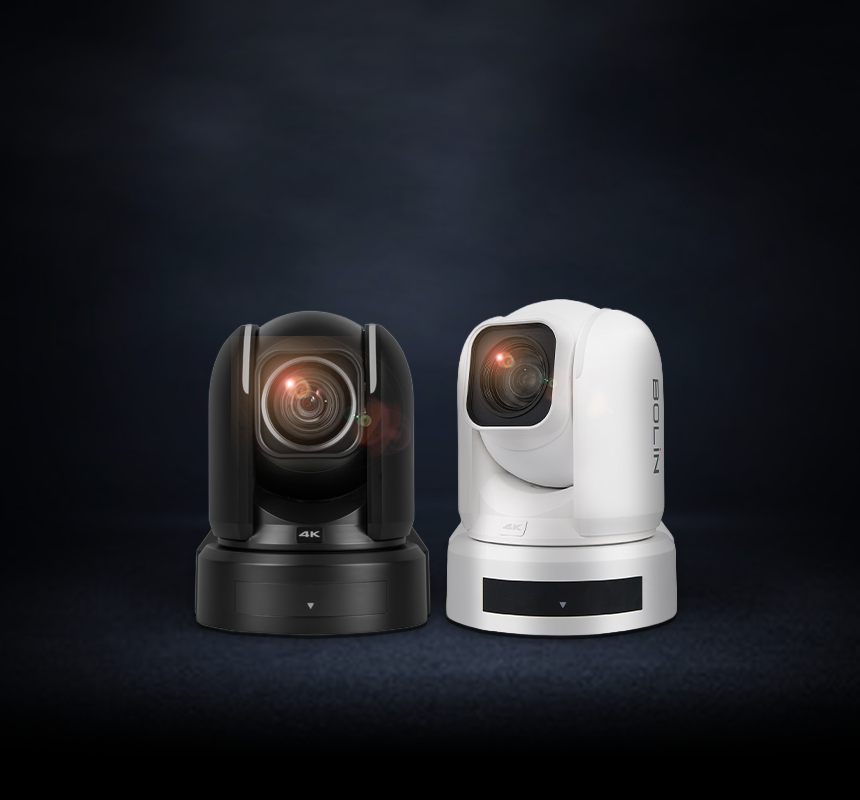
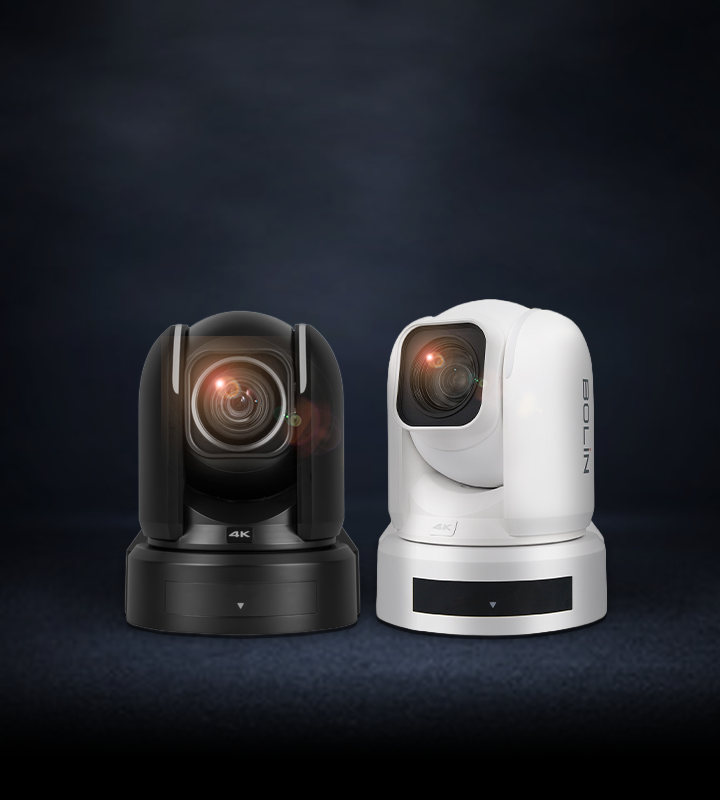
19
19

diff --git a/public/Product/R9-420F_B/sample.html b/public/Product/R9-420F_B/sample.html
@@ -46,7 +46,7 @@
       </div>
       <div>
         <li>
-        <img src="./img/logo_bolinW.png" alt="BOLIN 로고" title="보린 화이트 로고"/>
+        <img src="./img/logo_bolinW.png" alt="BOLIN 로고" title="보린 화이트 로고" style="scale: 0.7;" />
         <h2>4K PTZ Camera</h2>
         <h3>Professional</h3>
         </li>
@@ -65,10 +65,6 @@
         <h2>Red Line 시리즈</h2>
         <span>고품질, 저지연성, 저대역폭 IP 스트림을 제공하여 원격 프로덕션, 클라우드 스트리밍 및 하이브리드 방송 애플리케이션에 적합합니다.</span>
         <div>
-            <picture>
-              <source media="(min-width: 768px)" srcset="./img/b9res.png" alt="BOLIN PTZ 카메라" title="BOLIN R라인 시리즈"/>
-              <img>
-            </picture>
         </div>
         <ul>
           <li>
@@ -78,7 +74,18 @@
             </picture>
             <div>
               <h3>R9-420F</h3>
-              <span>1/2.8 Inch 4K Sony Image Sensorㅣ 20X Zoom Rangeㅣ 4K60(2160p59.97)ㅣ Full HD (1080/i59.94/p60) ㅣ 12G-SDI + SFP-SDI+HDMI2.0+IPㅣ FAST HEVCㅣ Ultra Low Latencyㅣ Low Bandwidthㅣ FreeD Supported</span>
+              <span>
+                <ul>
+                <li><i class="fas fa-video"></i> 1/2.8" 4K Sony Sensor</li>
+                <li><i class="fas fa-search-plus"></i> 20X Zoom Range</li>
+                <li><i class="fas fa-tv"></i> 4K60(2160p59.97)</li>
+                <li><i class="fas fa-plug"></i> 12G-SDIㅣHDMIㅣIP</li>
+                <li><i class="fas fa-cube"></i> FreeD Supported</li>
+                </ul>
+              </span>
+
+              
+              
             </div>
           </li>
           <li>
@@ -88,7 +95,15 @@
             </picture>
             <div>
               <h3>R9-230H</h3>
-              <span>1/1.8 Inch Sony Image Sensorㅣ 30X Zoom Rangeㅣ Full HD (1080/i59.94/p60)ㅣ 3G-SDI + SFP-SDI+HDMI+IPㅣ Standard AVC/HEVCㅣ Super Image Stabilizerㅣ Low Light Performanceㅣ FreeD Supported</span>
+              <span>
+                <ul>
+                  <li><i class="fas fa-video"></i> 1/1.8" Sony Sensor</li>
+                  <li><i class="fas fa-search-plus"></i> 30X Zoom Range</li>
+                  <li><i class="fas fa-tv"></i> Full HD (1080/i59.94/p60)</li>
+                  <li><i class="fas fa-plug"></i> 3G-SDI + HDMI + IP</li>
+                  <li><i class="fas fa-hand-rock"></i> Super Image Stabilizer</li>
+                </ul>
+              </span>
             </div>
           </li>
           <li>
@@ -98,10 +113,28 @@
             </picture>
             <div>
               <h3>R9-418F</h3>
-              <span>1 Inch 4K Sony Image Sensorㅣ 18X Zoom Rangeㅣ 4K30(2160p29.97)ㅣ Full HD (1080/i59.94/p60)ㅣ 6G-SDI + SFP-SDI+HDMI+IPㅣ FAST HEVCㅣ Ultra Low Latencyㅣ Low Bandwidthㅣ FreeD Supported</span>
+              <span>
+                <ul>
+                  <li><i class="fas fa-video"></i> 1 Inch 4K Sony Sensor</li>
+                  <li><i class="fas fa-search-plus"></i> 18X Zoom Range</li>
+                  <li><i class="fas fa-tv"></i> 4K30(2160p29.97)</li>
+                  <li><i class="fas fa-plug"></i> 6G-SDI + HDMI + IP</li>
+                  <li><i class="fas fa-cube"></i> FreeD Supported</li>
+                </ul>
+              </span>
             </div>
           </li>
         </ul>
+
+        
+        <div>
+            <picture>
+              <source media="(min-width: 768px)" srcset="./img/b9res.png" alt="BOLIN PTZ 카메라" title="BOLIN R라인 시리즈"/>
+              <img>
+            </picture>
+        </div>
+
+
         <p class="p_s" style="display: flex; justify-content: flex-end;"><a href="#sspec" class="p_sa">스펙 자세히 보기 ></a></p>
       </div>
     </section>

diff --git a/public/Product/R9-420F_B/style/media.css b/public/Product/R9-420F_B/style/media.css
@@ -2,6 +2,66 @@
 
 @media (max-width: 768px) {
 
+  #container section:nth-child(n+2) > div{
+    padding: calc(4rem + 0.25vw) calc(1rem + 0.25vw);
+    /* margin: 0 1rem; */
+  }
+  #container #sspec > div{margin:0;padding: 1rem;}
+  
+  #container #gr-x1 li:nth-child(3) img,
+  #container #gr-x1 li:nth-child(4) img{
+     height: calc(10.75rem + 0.25vw);
+     object-fit: cover;
+     margin: 0 auto;
+     display: flex;
+     /* border-radius: 1rem; */
+  }
+
+  #container section:nth-child(12) #se_dv img
+  {
+     height: calc(10.5rem + 0.25vw);
+     object-fit: cover;
+     display: inline-block;
+     margin: 0 auto;
+     text-align: center;
+  }
+  #container section:nth-child(4) #se_dv img,
+  #container section:nth-child(5) #se_dv img:first-child,
+  #container section:nth-child(6) #se_dv img,
+  #container section:nth-child(7) #se_dv img,
+  #container section:nth-child(9) #se_dv img
+  {
+     height: calc(17.75rem + 0.25vw);
+     object-fit: cover;
+     border-radius: 1rem;
+     display: inline-block;
+     margin: 0 auto;
+     text-align: center;
+  }
+
+  
+  #container .pduct > div img{
+    scale: 1.1;
+    /* top: 1px; */
+    position: relative;
+  }
+  
+  #container .a_duct > div > h1{
+    font-size: calc(2.0rem + 1.25vw);
+  }
+
+
+  #container section:nth-child(n+3) > div h2{
+    font-size: calc(1.5rem + 1.25vw);
+  }
+
+  #container .a_duct > div > span,
+  #container section:nth-child(n+3) > div > span, 
+  #container section:nth-child(n+3) > div > li span{
+    font-size: calc(0.5rem + 0.75vw);
+  }
+
+
   #container section:nth-child(n+3){
     padding:0;
   }
@@ -23,8 +83,8 @@
     padding: 0.5rem;
   }
 
-  #container .w_duct ul{
-    margin-top: 1rem;
+  #container .w_duct ul i{
+    padding: 0 0.25rem 0.25rem  0;
   }
 
   #container .w_duct > ul > picture{
@@ -37,7 +97,7 @@
   }
   
   #container .presset ul{
-  grid-template-columns: repeat(auto-fill, minmax(40%, auto));
+  grid-template-columns: repeat(auto-fill, minmax(49%, auto));
   /* grid-template-rows: 1fr 1fr; */
   }
 
@@ -54,7 +114,11 @@
     grid-template-columns: 1fr;
   }
   body #container .a_duct > div{
-    padding: 1rem;
+    padding: 1rem 2rem;
+    /* margin: 0 1rem; */
+    min-height: 0;
+    top: 1px;
+    position: relative;
   }
   
   #container .a_duct{
@@ -64,7 +128,8 @@
   
   #container .pduct,
   #container section{
-    margin: 0px 1rem;
+    margin: 0px 0rem;
+    margin-bottom: 0px;
     /* padding: 0px 2rem; */
   }
   
@@ -76,6 +141,7 @@
     flex-direction: row;
     flex-wrap: nowrap;
     position: relative;
+    gap: 1rem;
   }
   
   #container .w_duct div + ul > li{
@@ -86,10 +152,13 @@
     min-width: 60%;
     flex-direction: column;
     flex-wrap: wrap;
+    padding: 1rem;
+    align-items: center;
   }
   
   #container .w_duct div + ul > li picture{
-    width: 50%;
+    width: 100%;
+    margin-bottom: 0.5rem;
   }
 
 

diff --git a/public/Product/R9-420F_B/style/cus_a.css b/public/Product/R9-420F_B/style/cus_a.css
@@ -24,7 +24,7 @@ section{
   background: var(--color-b);
 }
 
-#container .pduct{
+.pduct{
   margin-bottom: calc(-3rem + -0.75vw);
   background: #ffffff00;
 }
@@ -44,6 +44,9 @@ section{
   border-radius:0.5rem;
 }
 
+#se_dv li {
+  display: contents;
+}
 
 #se_dv{
   margin-top: calc(1rem + 1.25vw);
@@ -54,11 +57,12 @@ section:nth-child(n+2) > div{
   max-width: 860px;
   margin: 0 auto;
   min-height: 16rem;
-  padding: calc(3rem + 0.25vw);
+  padding: calc(3rem + 0.25vw) 0;
 }
-#container .rl_sdu ul li span{
-  /* font-size: var(--size-cb); */
-  font-size: calc(0.5rem + 0.25vw);
+.rl_sdu ul li span{
+  font-size: var(--size-cb);
+  /* font-size: calc(0.5rem + 0.25vw); */
+  padding-top: 0.5rem;
 }
 
 .spx h2{
@@ -108,6 +112,7 @@ section:nth-child(n+3) > div > li span
   display:flex;
   flex-direction: column;
   align-items: center;
+  overflow: hidden;
 }
 
 .pduct > div img{
@@ -203,9 +208,10 @@ section:nth-child(n+3) > div > li span
 .rl_sdu > div{
   overflow: hidden;
   /* max-height: 32rem; */
-  background: var(--color-gg);
+  background-image: linear-gradient(to right, #243949 9%, #517fa4 100%);
+  background-color: #000000;
   border-radius:0.75rem;
-  margin: 1.75rem 0;
+  margin: 1.0rem 0;
   padding: 0 1rem;
 }
 
@@ -235,22 +241,23 @@ section:nth-child(n+3) > div > li span
 }
 
 .w_duct div + ul > li{
-  padding: 1rem 2rem;
+  padding: 1rem 1rem;
   border-radius: 0.5rem;
-  background: #313131;
+  background: #2a2a2a;
 }
 
 .rl_sdu ul div {
   display:flex;
-  align-items: center;
+  width: 100%;
   flex-wrap: wrap;
+  flex-direction: column;
 }
 
 .w_duct div + ul{
   display:grid;
-  /* grid-template-columns: 1fr 1fr 1fr; */
+  grid-template-columns: 1fr 1fr 1fr;
   /* grid-template-rows: 1fr 1fr; */
-  gap: 2rem;
+  gap: 1rem;
   /* margin-top: 2rem; */
 }
 
@@ -261,6 +268,8 @@ section:nth-child(n+3) > div > li span
 .f_duct > div li:last-child span{
   border-bottom: 2px solid #ff0000;
   font-weight: bold;
+  display: inline-block;
+  /* width: 100%; */
 }
 
 .f_duct > div li:first-child img{
@@ -269,7 +278,7 @@ section:nth-child(n+3) > div > li span
 
 .f_duct > div > div{
   display: grid;
-  grid-template-columns: repeat(auto-fit, minmax(60px, 1fr));
+  grid-template-columns: repeat(auto-fill, minmax(49%, auto));
   gap: 1.5rem;
   min-height: 0;
   /* padding: 1rem 0rem 0 0; */
@@ -460,7 +469,7 @@ background: #000000d1;
   
 text-align: center;
   
-font-size: var(--size-ca);
+font-size: var(--size-cb);
 }
 
 .presset > ul > li{
